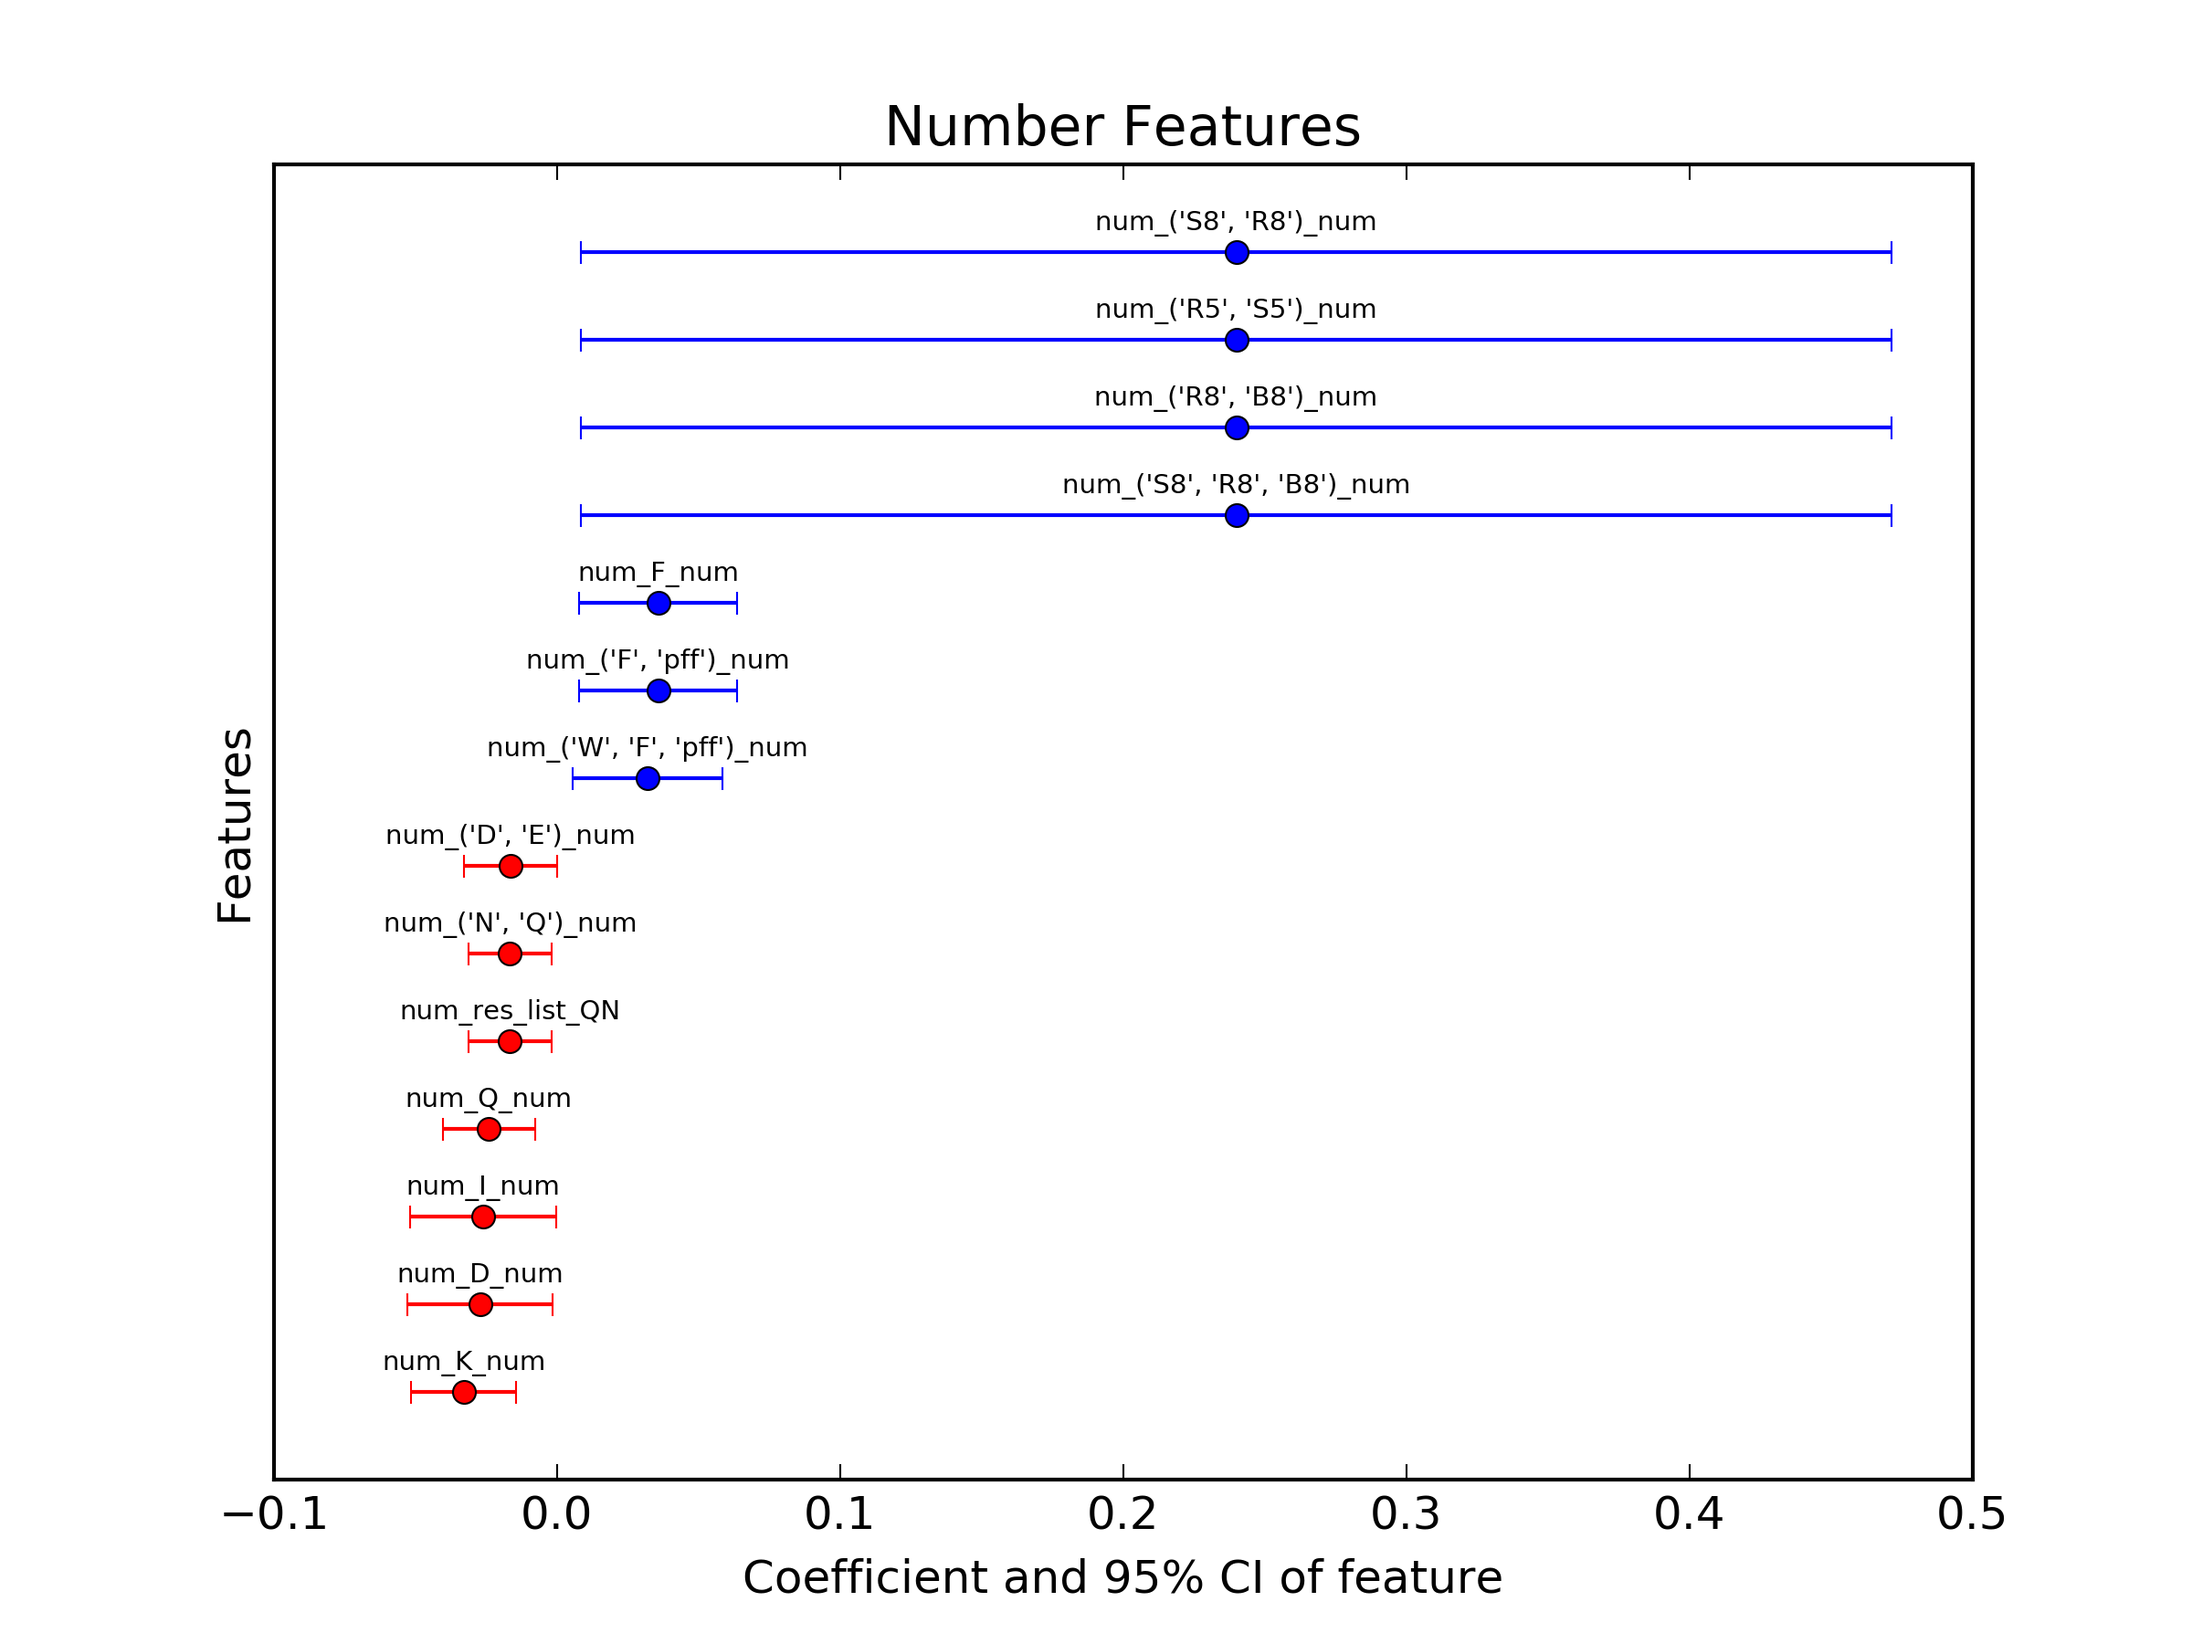
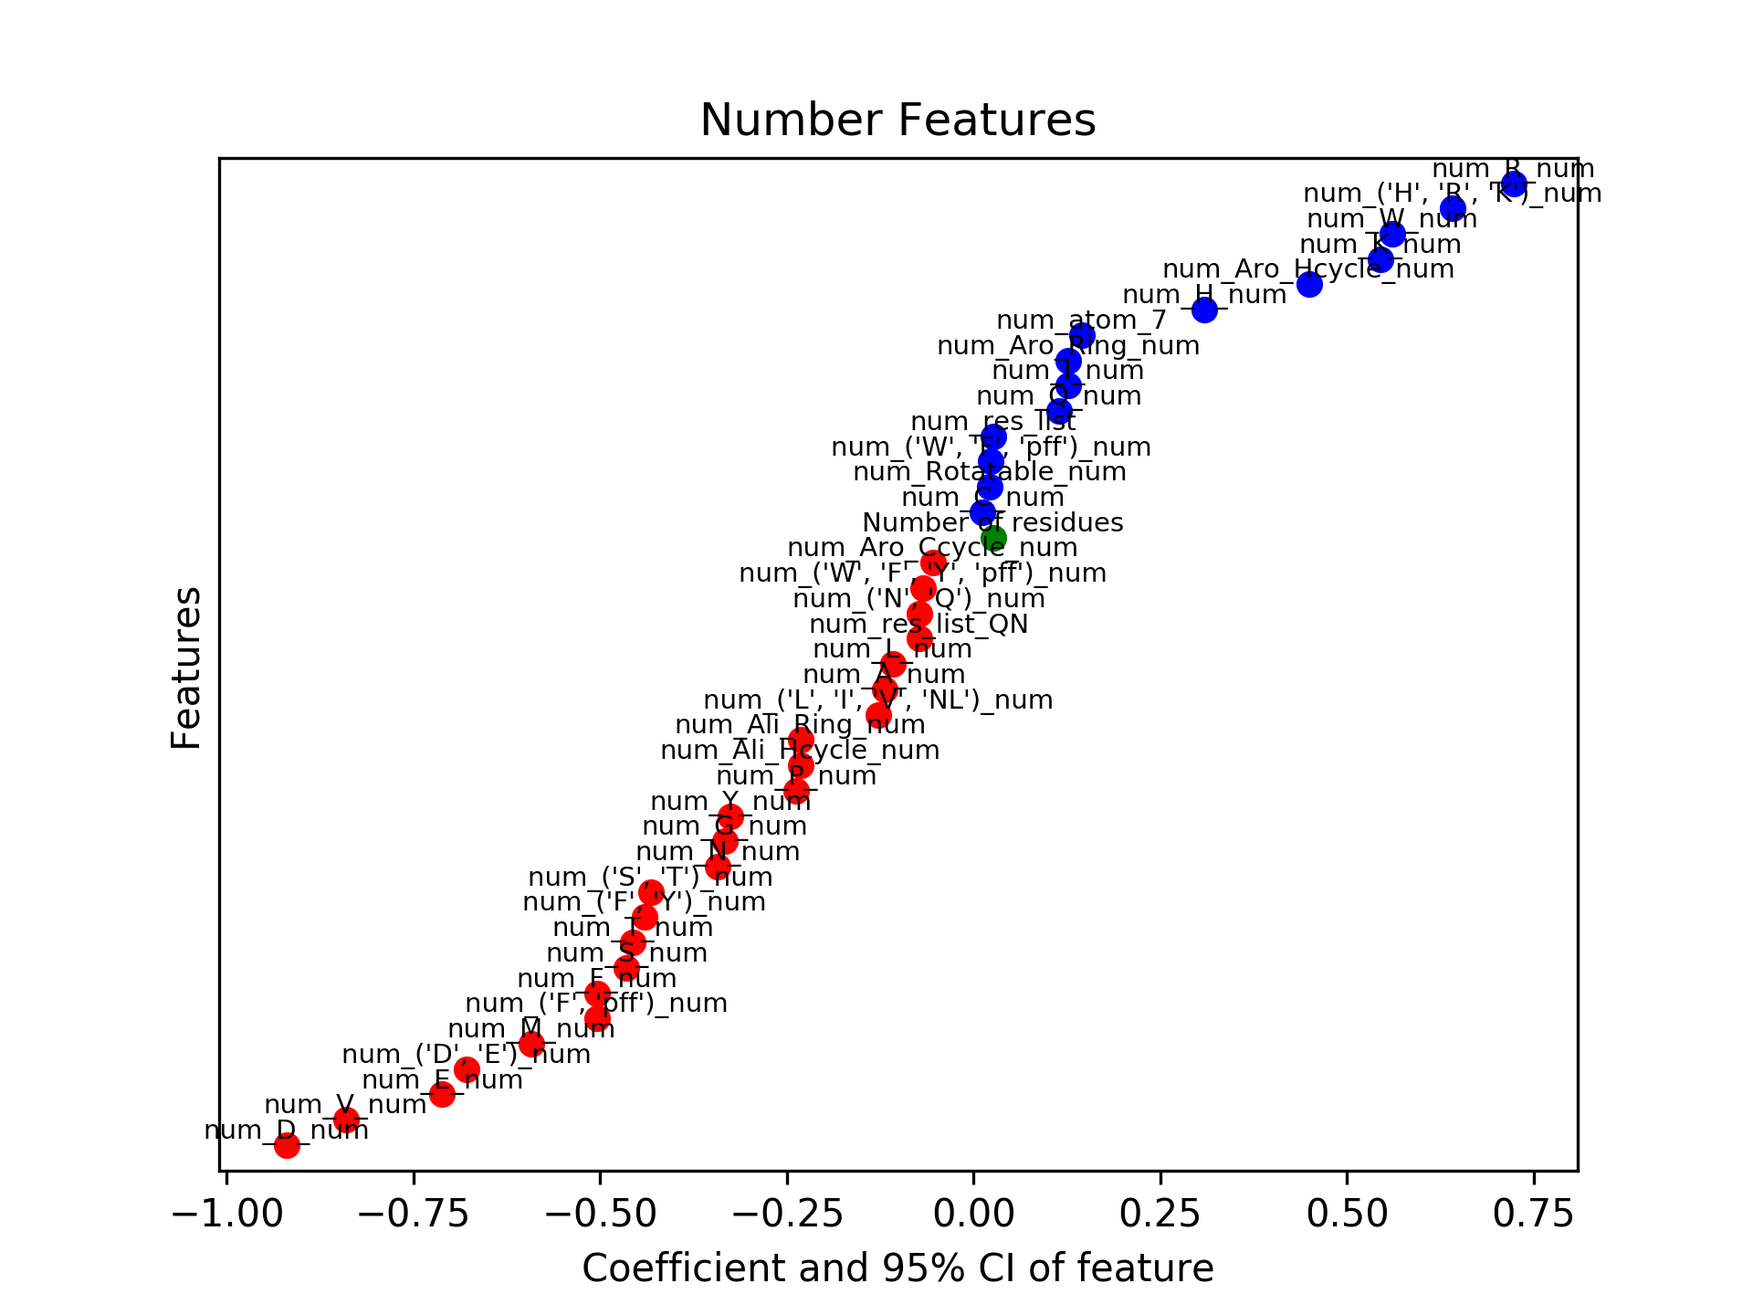
1

diff --git a/toxicity/Final/Permability/all_seq/staple/test_linear_9000.py b/toxicity/Final/Permability/all_seq/staple/test_linear_9000.py
@@ -15,10 +15,11 @@ x=charge_csv[(charge_csv['atoms'] == 28) & (charge_csv['bond1'] == '[10]')\
              & (charge_csv['bond2'] == '[1, 3]') \
              & (charge_csv['charge'] >= 0.164) \
              & (charge_csv['charge'] <= 0.1652)]['origin'].values
-test = pd.read_csv('../stapled_peptide_permability_features.csv')
+test = pd.read_csv('../peptide_permability_features.csv')
 temp=test.iloc[x]
-test = test[test['7'] == 1].reset_index(drop=True)
-test = test[test['1'] != '-AC-AHL-R8-LCLEKL-S5-GLV-(K-PEG1--FITC-)'].reset_index(drop=True)
+test['1'] = test['ID']
+#test = test[test['7'] == 1].reset_index(drop=True)
+#test = test[test['1'] != '-AC-AHL-R8-LCLEKL-S5-GLV-(K-PEG1--FITC-)'].reset_index(drop=True)
 def process_string(str,len=len):
     result = []
     special_resi = False
@@ -251,10 +252,10 @@ for res in dictt.keys():
     if dictt[res] >= 20:
         test['%s_num' %str(res)] = test['list'].apply(lambda x : sum(np.in1d(x,np.array(res))))
         test['%s_norm' %str(res)] = 1.0*test['%s_num'%str(res)]/test['res_list']
-        test['%s_normSA' %str(res)] = test['list'].apply(lambda y: np.array(list(map(lambda x : dictt_vol[x],y)))).apply(np.sum) #total area
-        test['%s_normSA' %str(res)] = test['list'].apply(lambda y : sum(np.array(list(map(lambda x : dictt_vol[x],y)))[np.in1d(y,np.array(res))]))\
-                                      /test['list'].apply(lambda y: np.array(list(map(lambda x : dictt_vol[x],y)))).apply(np.sum)
-        impt += ['%s_norm' %str(res),'%s_num' %str(res),'%s_normSA' %str(res)]
+        #test['%s_normSA' %str(res)] = test['list'].apply(lambda y: np.array(list(map(lambda x : dictt_vol[x],y)))).apply(np.sum) #total area
+        #test['%s_normSA' %str(res)] = test['list'].apply(lambda y : sum(np.array(list(map(lambda x : dictt_vol[x],y)))[np.in1d(y,np.array(res))]))\
+        #                              /test['list'].apply(lambda y: np.array(list(map(lambda x : dictt_vol[x],y)))).apply(np.sum)
+        impt += ['%s_norm' %str(res),'%s_num' %str(res),]#'%s_normSA' %str(res)]
 #double res
 def func_compare2(x,gap,res): #find motiffs
     for i in range(len(res)):
@@ -281,14 +282,15 @@ for i in impt:
         del test[i]
 dictt_name = {}
 if True:
+    test['10'] = (test['source']==2)*9 +1
     clusters = [x for x in test.keys() if 'cluster_' in x]
     results = []
     from sklearn.metrics import r2_score
-##    def r2_score(y_true,y_pred,sample_weight):
-##        mean = sum(y_true*sample_weight)/sum(sample_weight)
-##        r2_model = sum(sample_weight*(y_true-y_pred)**2)
-##        r2_all = sum(sample_weight*(y_true-mean)**2)
-##        return 1-r2_model/r2_all
+    def log_likelihood(X,B,y): #loglihood of logistic regresion parameters
+        temp1 = np.sum(y * np.matmul(X,B))
+        temp2 = np.sum(np.log(1+np.exp(np.matul(X,B))))
+        return temp1-temp2
+    
     for i in list(test.keys())[15:]:#(0.0001,0.0003,0.001,0.003,0.01,0.03,0.1,0.3):
         for cluster in clusters:
             try:
@@ -298,7 +300,7 @@ if True:
                 from sklearn.preprocessing import StandardScaler
                 from sklearn.linear_model import Lasso
                 alpha =0.00#alpha#10**alpha
-                clf = linear_model.LinearRegression()
+                clf = linear_model.LogisticRegression()
                 temptrain  = StandardScaler().fit(test[[i,]]).transform(test[[i,]])
                 ids_non_zero = test[test[i]!=0].index
                 if 'num' in i or 'res_list' in i or i in ['atom_1', 'atom_6', 'atom_7', 'atom_8', 'atom_9', 'atom_16', 'atom_len', 'atom_size']: #do not scale count features. 
@@ -313,8 +315,8 @@ if True:
                 W=np.diag(test['weight'])
                 X=temptrain2
                 y=np.log10(test['10'])
-                B=np.matmul(np.linalg.inv(np.matmul(np.matmul(X.T,W),X)) ,np.matmul(np.matmul(X.T,W),y))
-                preds = np.matmul(B,X.T)
+                B=np.concatenate([[clf.intercept_],clf.coef_])
+                preds = np.matmul(X,B)
                 # sm.WLS(y, X, weights=test['weight']).fit().summary()
                 se = np.sum(
                     (test['weight']*(preds-np.log10(test['10']))**2)
